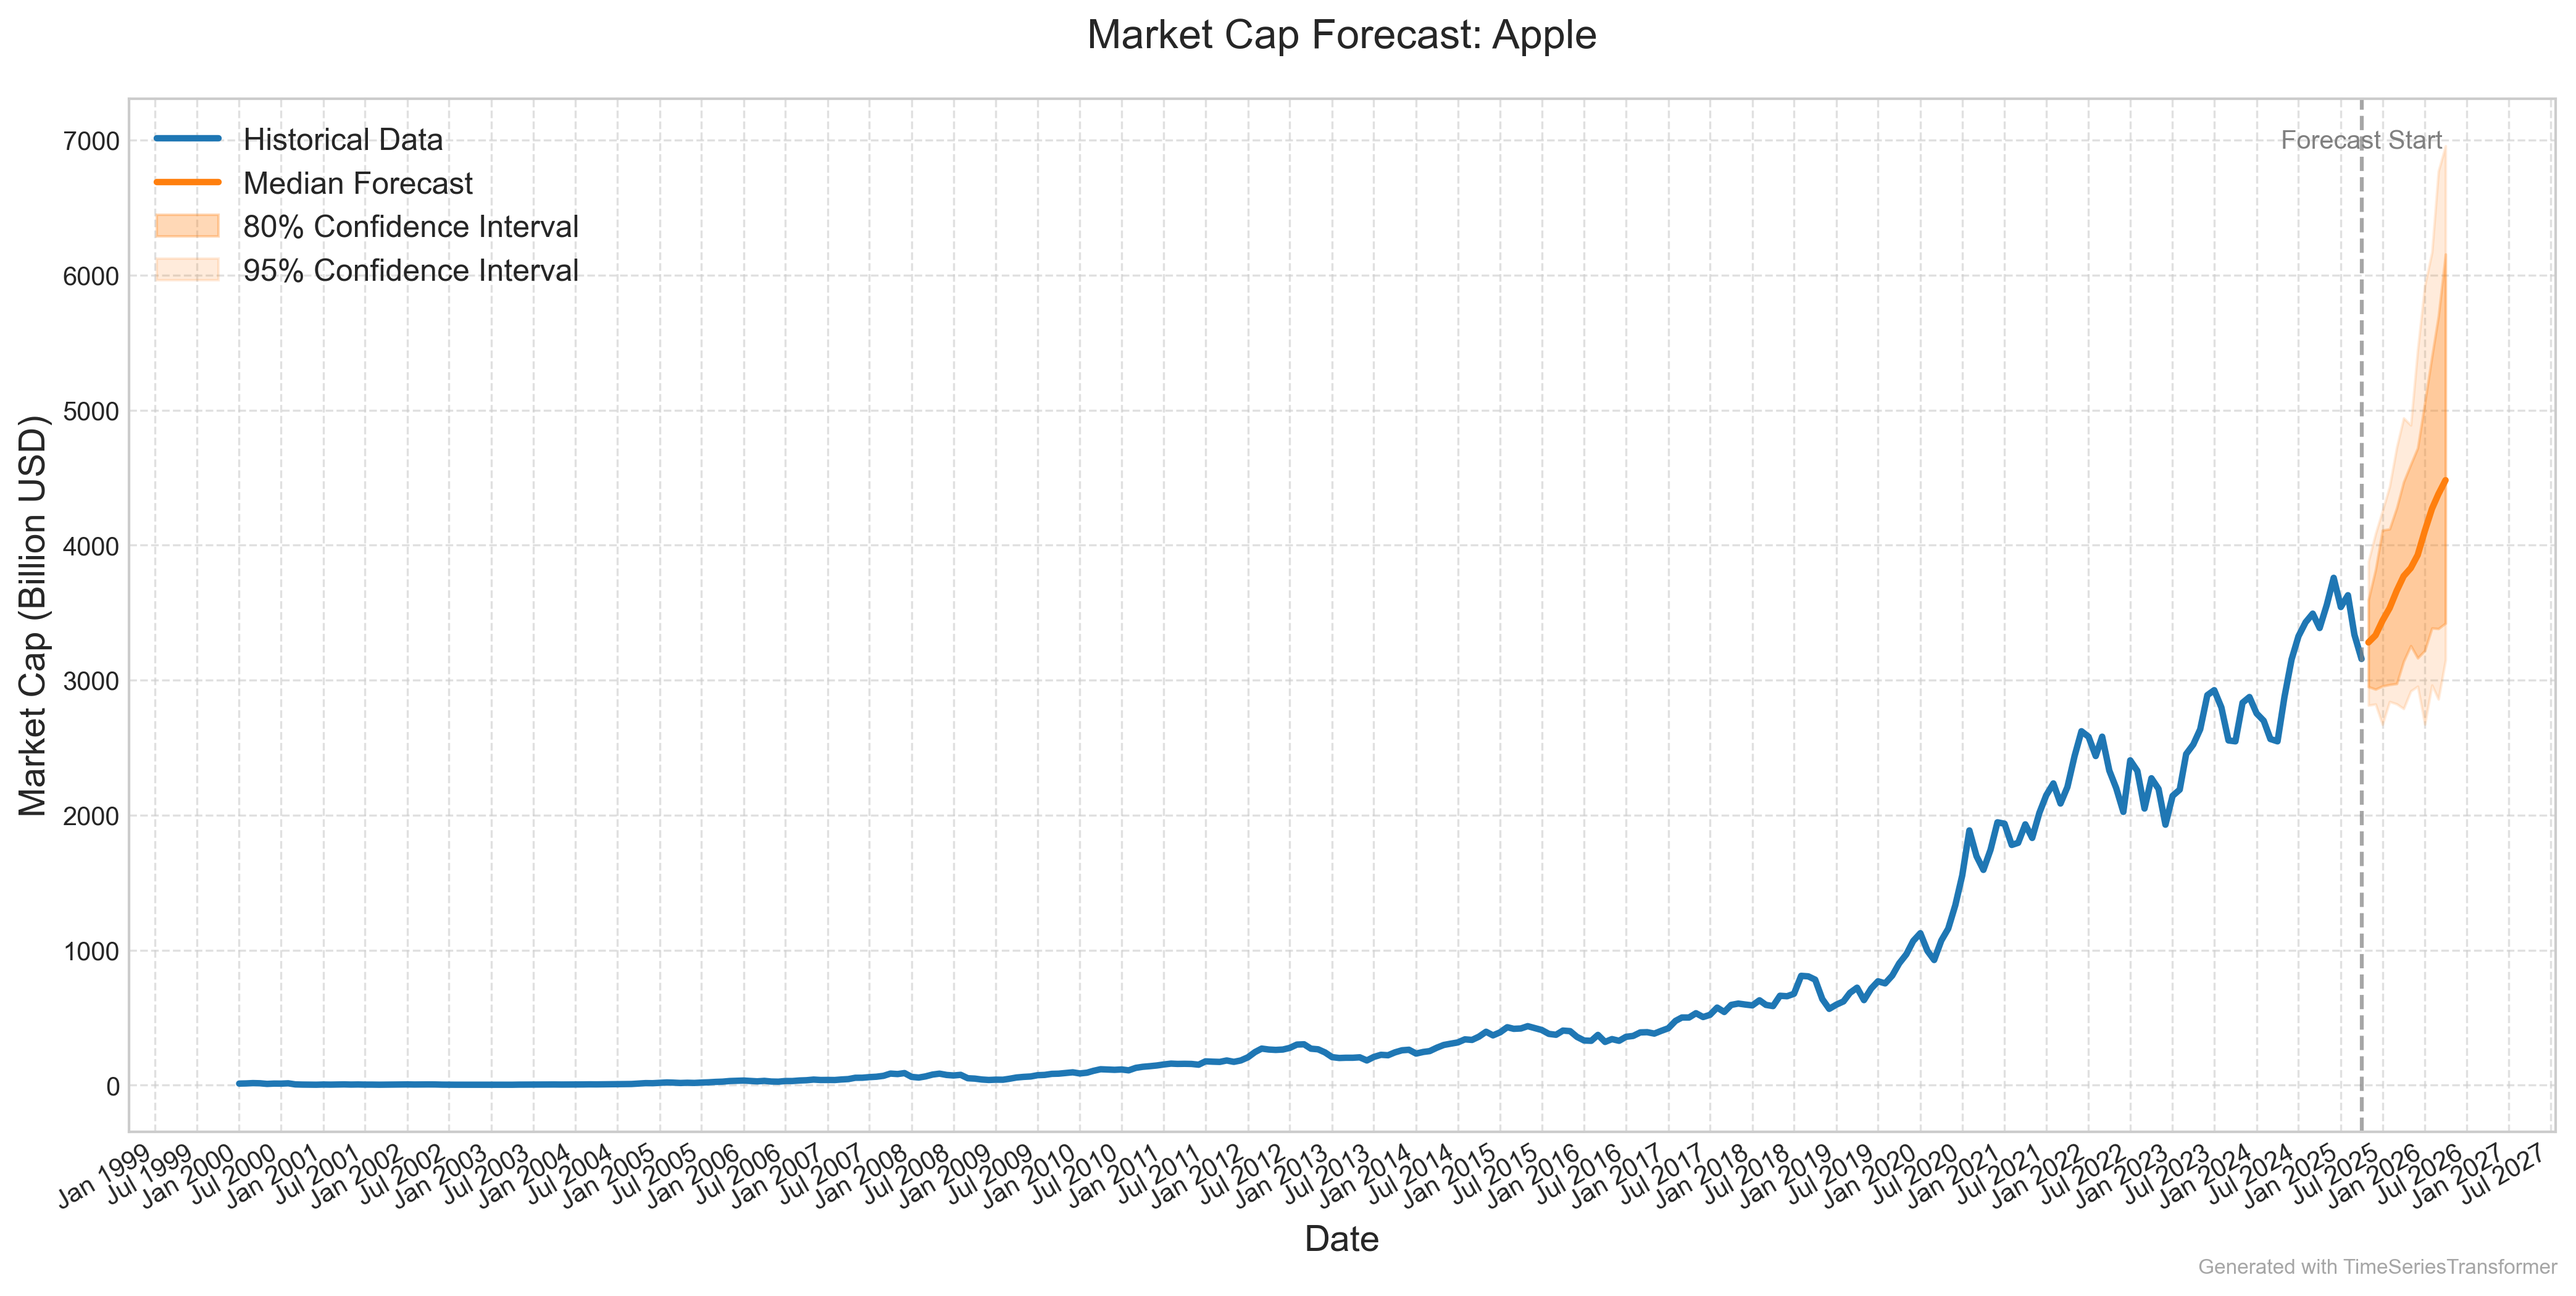
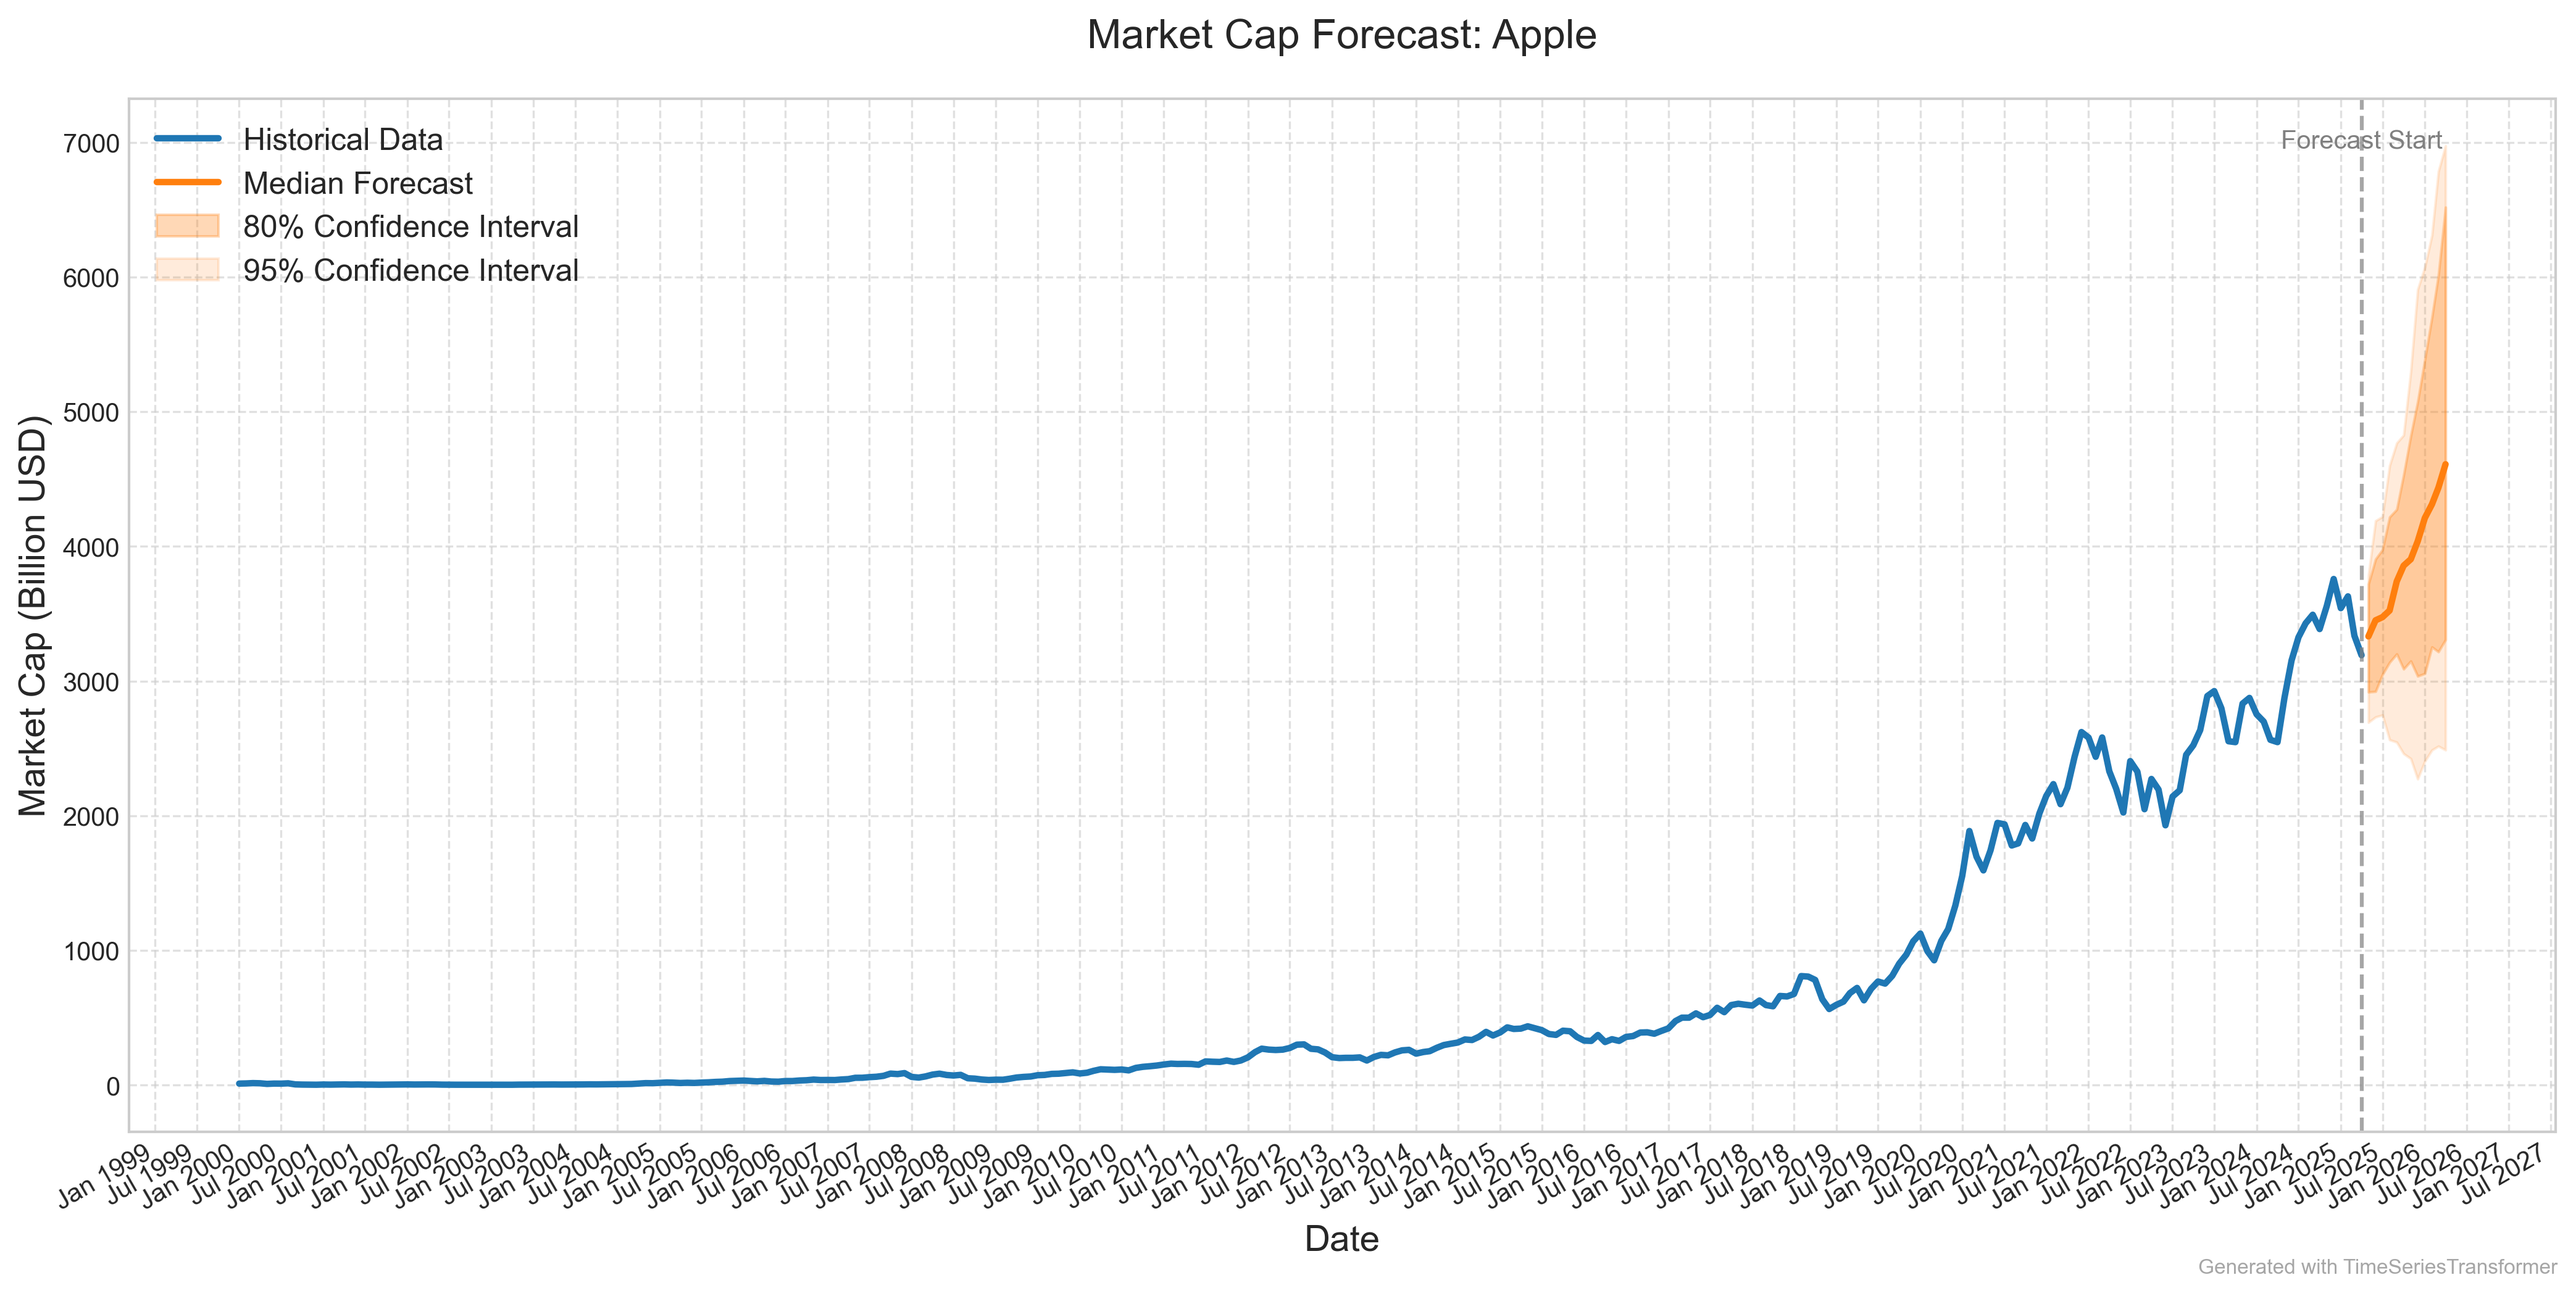
chore: forecast on newly trained model

Changed region(s): [[0.9034, 0.4024, 0.9657, 0.5881], [0.9346, 0.1857, 0.9657, 0.3714], [0.0312, 0.0929, 0.0623, 0.1238]]

diff --git a/forecast_future.py b/forecast_future.py
@@ -39,7 +39,7 @@ from gluonts.time_feature import time_features_from_frequency_str
 # ═════════════════════════════════════════════════════════════════
 
 # System paths and constants
-MODEL_DIR = "marketcap_model_900_12"  # Update with your model directory
+MODEL_DIR = "models/marketcap_model_1000"  # Update with your model directory
 DATA_DIR = "prepared_marketcap_dataset"
 DEVICE = torch.device("cuda" if torch.cuda.is_available() else "cpu")
 
